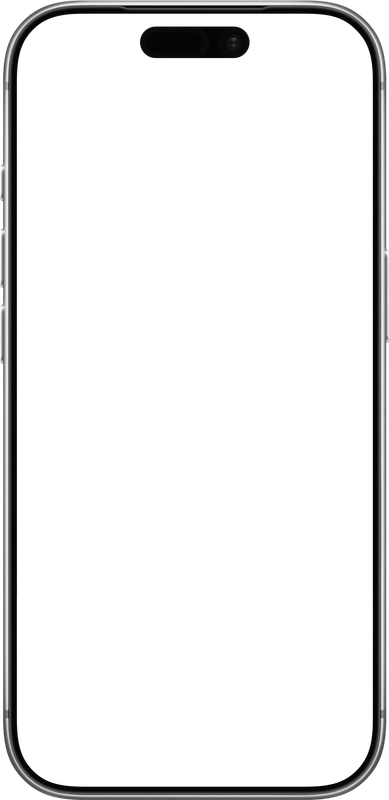
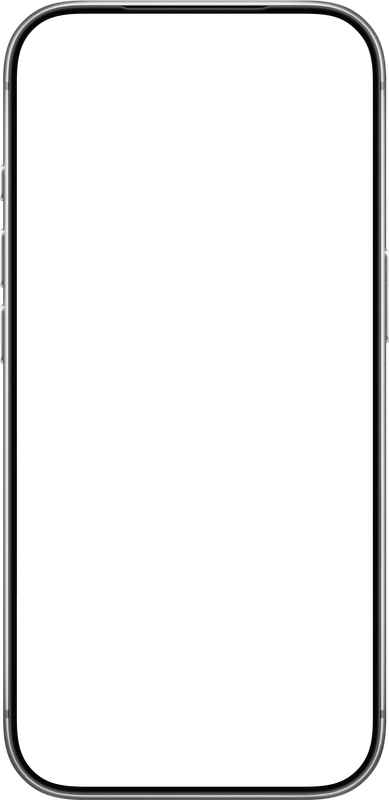
Фон приглушён, вырез камеры убран, отступы и коллаж поправлены
Фон перетягивал внимание на себя:
- красных лучей вместо 23 осталось 7 (на узких — 4)
- скорость ещё втрое ниже, цвет глуше (168,30,46 вместо фирменного) и
  прозрачнее (0.10–0.24 вместо 0.30–0.70)
- знаки и связи между ними тоже бледнее

Мокапы:
- убран вырез камеры: он закрывал шапку интерфейса на снимках. Удалён
  заливкой от центра выреза, кромку корпуса не трогали — первый заход
  чистил всё непрозрачное в верхней части окна и съел часть рамки
- размеры вернул к прежним: после компенсации под корпус телефоны
  выглядели крупнее, чем были

Прочее:
- снимки в блоке цены заходили друг на друга на полсотни пикселей после
  увеличения — теперь оба одного размера и с зазором
- на мобилке отступ от подзаголовка до карточки квиза был вдвое больше,
  чем у соседних блоков: складывались отступ сетки и margin карточки.
  Стало 23px — столько же, сколько в «Возможностях»

Changed region(s): [[0.3393, 0.0312, 0.6478, 0.0938]]

diff --git a/site/index.html b/site/index.html
@@ -82,7 +82,7 @@
 
   /* ── сетка ── */
   --shell: 1505px;
-  --shot-w: clamp(164.37px, 15.64vw, 300.24px);   /* ширина снимка с рамкой */
+  --shot-w: clamp(150px, 14.27vw, 274px);   /* ширина снимка с рамкой */
   --shot-gap: clamp(14px, 1.82vw, 35px);
 
   --ease: cubic-bezier(.22,.61,.36,1);
@@ -332,7 +332,7 @@ section, .foot { position: relative; z-index: 1; }
 .panel .tags { display: flex; flex-wrap: wrap; gap: 8px; }
 .panel .tag { font-size: var(--fs-cap); color: var(--muted-lo);
   border: 1px solid #2A2830; padding: 7px 12px; border-radius: 999px; }
-.panel .pic { align-self: flex-start; width: clamp(153.41px, 14.25vw, 273.94px); }
+.panel .pic { align-self: flex-start; width: clamp(140px, 13vw, 250px); }
 .panel .pic .shot, .case .pic .shot { width: 100%; }
 
 /* ── 04. Для кого ── */
@@ -376,7 +376,7 @@ section, .foot { position: relative; z-index: 1; }
   text-transform: uppercase; color: var(--red-lt); }
 .case h3 { margin: 14px 0 10px; }
 .case p { font-size: var(--fs-body); line-height: var(--lh-text); color: var(--muted-lo); }
-.case .pic { width: clamp(153.41px, 14.25vw, 273.94px); }
+.case .pic { width: clamp(140px, 13vw, 250px); }
 
 /* ── Слово основателя ── */
 .fv { display: grid; grid-template-columns: clamp(240px, 24vw, 380px) minmax(0, 1fr);
@@ -448,8 +448,10 @@ section, .foot { position: relative; z-index: 1; }
     margin-left: 10px;
     width: clamp(190px, 16.8vw, 323px); min-height: clamp(270px, 23.4vw, 450px); }
   .price .collage .shot { position: absolute; }
-  .price .collage .shot.a { left: 0; top: 0; width: clamp(101.91px, 8.96vw, 172.04px); }
-  .price .collage .shot.b { right: 0; top: clamp(48px, 4.4vw, 84px); width: clamp(119.44px, 10.56vw, 202.72px); }
+  .price .collage .shot.a, .price .collage .shot.b {
+    width: clamp(92px, 8.17vw, 157px); }
+  .price .collage .shot.a { left: 0; top: 0; }
+  .price .collage .shot.b { right: 0; top: clamp(48px, 4.4vw, 84px); }
 .price .tagline { font-size: var(--fs-cap); letter-spacing: .14em; text-transform: uppercase;
   color: var(--muted-hi); font-family: Oswald, sans-serif; }
 .price .sum { font-family: Oswald, sans-serif; font-weight: 700; font-size: clamp(40px, 3.44vw, 66px);
@@ -701,7 +703,12 @@ section, .foot { position: relative; z-index: 1; }
 .magnet .form input:focus { border-color: var(--paper); }
 .magnet .form .note { color: rgba(255,255,255,.72); }
 @media (max-width: 900px) { .magnet { grid-template-columns: 1fr; } }
-@media (max-width: 900px) { .qz-layout { grid-template-columns: 1fr; } }
+@media (max-width: 900px) {
+  .qz-layout { grid-template-columns: 1fr; gap: clamp(21px, 2.4vw, 46px); }
+  /* отступ до карточки задаёт только сетка — иначе он удваивался */
+  .qz { margin-top: 0; }
+  .qz-side { padding-top: 0; }
+}
 
 /* ── согласие на обработку данных ── */
 .agree { display: grid; grid-template-columns: auto 1fr; gap: 10px; align-items: start;
@@ -761,7 +768,7 @@ section, .foot { position: relative; z-index: 1; }
   .fv-media { max-width: 300px; width: 100%; margin: 0 auto; }
   .fv-body { padding-top: 0; }
   .fv-cmp { grid-template-columns: 1fr; }
-  /* relative, а не static: иначе скотч теряет опору и уезжает на карточку */
+  /* relative, а не static: absolute здесь ломает ряд */
   .price .collage .shot.a, .price .collage .shot.b {
     position: relative; left: auto; right: auto; top: auto;
     width: calc((100% - 12px) / 2); margin-top: 14px; }
@@ -850,7 +857,7 @@ section, .foot { position: relative; z-index: 1; }
   .demo { grid-template-columns: 1fr; }
 }
 </style>
-<script type="application/ld+json">__JSONLD__</script>
+<script type="application/ld+json">{"@context":"https://schema.org","@graph":[{"@type":"Organization","@id":"https://greagaew-alt.github.io/appforse-landing/site/#org","name":"AppForse","url":"https://greagaew-alt.github.io/appforse-landing/site/","logo":"https://greagaew-alt.github.io/appforse-landing/site/icon-192.png","image":"https://greagaew-alt.github.io/appforse-landing/site/og.jpg","description":"Готовая платформа мобильных приложений для торговли под брендом заказчика","sameAs":["https://vk.com/appforse","https://t.me/shark154"],"contactPoint":[{"@type":"ContactPoint","contactType":"sales","url":"https://t.me/shark154","availableLanguage":"Russian"}]},{"@type":"WebSite","@id":"https://greagaew-alt.github.io/appforse-landing/site/#site","url":"https://greagaew-alt.github.io/appforse-landing/site/","name":"AppForse","inLanguage":"ru-RU","publisher":{"@id":"https://greagaew-alt.github.io/appforse-landing/site/#org"}},{"@type":"WebPage","@id":"https://greagaew-alt.github.io/appforse-landing/site/#page","url":"https://greagaew-alt.github.io/appforse-landing/site/","name":"Мобильное приложение под вашим брендом за 7 дней — AppForse","isPartOf":{"@id":"https://greagaew-alt.github.io/appforse-landing/site/#site"},"about":{"@id":"https://greagaew-alt.github.io/appforse-landing/site/#org"},"inLanguage":"ru-RU","primaryImageOfPage":"https://greagaew-alt.github.io/appforse-landing/site/og.jpg"},{"@type":"Service","@id":"https://greagaew-alt.github.io/appforse-landing/site/#service","name":"Запуск мобильного приложения под брендом заказчика","serviceType":"Разработка мобильного приложения на готовой платформе","provider":{"@id":"https://greagaew-alt.github.io/appforse-landing/site/#org"},"areaServed":{"@type":"Country","name":"Россия"},"audience":[{"@type":"BusinessAudience","name":"Оптовые продажи"},{"@type":"BusinessAudience","name":"Магазины и доставка"},{"@type":"BusinessAudience","name":"Рестораны и доставка еды"},{"@type":"BusinessAudience","name":"Розница"}],"description":"Клиентское приложение и админ-панель под брендом заказчика: каталог, заказы, доставка, оплата, бонусы, push-уведомления и CRM. Публикация в App Store и Google Play за 7 рабочих дней.","offers":{"@type":"Offer","price":"150000","priceCurrency":"RUB","availability":"https://schema.org/InStock","url":"https://greagaew-alt.github.io/appforse-landing/site/#price","itemOffered":{"@type":"Service","name":"Запуск платформы под вашим брендом"}},"hasOfferCatalog":{"@type":"OfferCatalog","name":"В стоимость входит","itemListElement":[{"@type":"Offer","itemOffered":{"@type":"Service","name":"Клиентское приложение под вашим брендом"}},{"@type":"Offer","itemOffered":{"@type":"Service","name":"Публикация в App Store и Google Play"}},{"@type":"Offer","itemOffered":{"@type":"Service","name":"Каталог товаров, корзина и онлайн-оплата"}},{"@type":"Offer","itemOffered":{"@type":"Service","name":"Доставка и самовывоз"}},{"@type":"Offer","itemOffered":{"@type":"Service","name":"Бонусы, промокоды и push-уведомления"}},{"@type":"Offer","itemOffered":{"@type":"Service","name":"CRM и клиентская база"}},{"@type":"Offer","itemOffered":{"@type":"Service","name":"Админ-панель и аналитика"}}]}},{"@type":"FAQPage","@id":"https://greagaew-alt.github.io/appforse-landing/site/#faq","mainEntity":[{"@type":"Question","name":"У меня уже есть сайт и другие каналы продаж — зачем ещё приложение?","acceptedAnswer":{"@type":"Answer","text":"Каждый канал выполняет свою задачу. Реклама помогает привлекать новых клиентов, а приложение — возвращать тех, кто уже покупал. Через push-уведомления, бонусы и персональные предложения вы можете напрямую работать с клиентской базой и стимулировать повторные покупки."}},{"@type":"Question","name":"Чем это отличается от разработки приложения с нуля?","acceptedAnswer":{"@type":"Answer","text":"При разработке с нуля вы оплачиваете целую команду — аналитика, дизайнера, разработчиков под iOS и Android, тестировщика и менеджера проекта. Они заново пишут каталог, корзину, оплату и бонусную систему — это сотни часов и месяцы работы. У нас платформа уже написана, отлажена и работает в действующем бизнесе — мы разворачиваем её под ваш бренд за 7 дней. Индивидуальная разработка оправдана, когда у бизнеса действительно нестандартная задача."}},{"@type":"Question","name":"Сколько времени занимает запуск?","acceptedAnswer":{"@type":"Answer","text":"Само приложение собираем и подготавливаем к публикации за 7 рабочих дней после получения готового дизайна. Дизайн и фирменный стиль предоставляет клиент — мы адаптируем их под платформу и занимаемся сборкой приложения."}},{"@type":"Question","name":"Кто делает дизайн приложения?","acceptedAnswer":{"@type":"Answer","text":"Дизайн и фирменный стиль предоставляет клиент. Мы адаптируем готовый дизайн под платформу и собираем на его основе приложение. Если нужно, подскажем, какие материалы подготовить."}},{"@type":"Question","name":"Что нужно от меня для запуска?","acceptedAnswer":{"@type":"Answer","text":"Нужны информация о бизнесе, каталог товаров, логотип и фирменный стиль. После получения материалов мы берём сборку и подготовку приложения на себя."}},{"@type":"Question","name":"Я получаю исходный код?","acceptedAnswer":{"@type":"Answer","text":"Нет. Вы получаете готовое приложение под своим брендом, админ-панель и необходимые доступы для работы с платформой. Исходный код платформы в стоимость запуска не входит. Если потребуется его выкуп или передача — условия обсуждаются отдельно."}},{"@type":"Question","name":"Обязательно ли платить за поддержку?","acceptedAnswer":{"@type":"Answer","text":"Нет. После запуска вы получаете готовое приложение и необходимые доступы и можете управлять платформой самостоятельно. Техническая поддержка подключается по желанию — от 25 000 ₽/мес. в зависимости от объёма задач. Дополнительные функции и доработки рассчитываются отдельно."}},{"@type":"Question","name":"Что если клиенты не станут пользоваться приложением?","acceptedAnswer":{"@type":"Answer","text":"До запуска вы можете посмотреть демо и понять, как приложение выглядит для вашего клиента. После запуска привлекать пользователей можно через бонусы, push-уведомления, рекламу и собственные каналы коммуникации. Платформа уже работает в действующем бизнесе в нескольких городах."}}]}]}</script>
 </head>
 <body>
 <div id="root"></div>
@@ -1481,9 +1488,11 @@ const ParticleField = () => {
     };
     const seed = () => {
       /* связи ищем перебором пар, поэтому число знаков держим скромным:
-         80 точек это около 3200 сравнений за кадр, 42 — примерно 860 */
+         80 точек это около 3200 сравнений за кадр, 42 — примерно 860.
+         Лучей держим минимум: они самые заметные, а фон не должен
+         перетягивать внимание на себя */
       const nCount = w < 760 ? 42 : 80;
-      const bCount = w < 760 ? 13 : 23;
+      const bCount = w < 760 ? 4 : 7;
       nodes = [];
       for (let i = 0; i < nCount; i++) {
         nodes.push({
@@ -1499,8 +1508,8 @@ const ParticleField = () => {
           x: Math.random() * w,
           y: Math.random() * h,
           len: Math.random() * 90 + 46,
-          sp: Math.random() * 1.15 + 0.65,
-          a: Math.random() * 0.4 + 0.3
+          sp: Math.random() * 0.38 + 0.22,
+          a: Math.random() * 0.14 + 0.1
         });
       }
     };
@@ -1517,8 +1526,8 @@ const ParticleField = () => {
           b.x = Math.random() * w;
         }
         const g = ctx.createLinearGradient(b.x, b.y, b.x, b.y + b.len);
-        g.addColorStop(0, 'rgba(232, 36, 60, ' + b.a + ')');
-        g.addColorStop(1, 'rgba(232, 36, 60, 0)');
+        g.addColorStop(0, 'rgba(168, 30, 46, ' + b.a + ')');
+        g.addColorStop(1, 'rgba(168, 30, 46, 0)');
         ctx.strokeStyle = g;
         ctx.lineWidth = 1.6;
         ctx.beginPath();
@@ -1535,7 +1544,7 @@ const ParticleField = () => {
             dy = a.y - b.y;
           const d = Math.sqrt(dx * dx + dy * dy);
           if (d < LINK) {
-            ctx.strokeStyle = 'rgba(110, 110, 122, ' + 0.22 * (1 - d / LINK) + ')';
+            ctx.strokeStyle = 'rgba(110, 110, 122, ' + 0.12 * (1 - d / LINK) + ')';
             ctx.beginPath();
             ctx.moveTo(a.x, a.y);
             ctx.lineTo(b.x, b.y);
@@ -1561,13 +1570,13 @@ const ParticleField = () => {
           n.ch = GLYPHS[Math.random() * GLYPHS.length | 0];
         }
         if (near) {
-          ctx.strokeStyle = 'rgba(232, 36, 60, ' + 0.45 * (1 - d / REACH) + ')';
+          ctx.strokeStyle = 'rgba(198, 34, 54, ' + 0.22 * (1 - d / REACH) + ')';
           ctx.beginPath();
           ctx.moveTo(n.x, n.y);
           ctx.lineTo(mouse.x, mouse.y);
           ctx.stroke();
         }
-        ctx.fillStyle = near ? '#FF5468' : 'rgba(126, 126, 140, 0.52)';
+        ctx.fillStyle = near ? 'rgba(226, 62, 84, .7)' : 'rgba(120, 120, 134, 0.28)';
         ctx.fillText(n.ch, n.x, n.y);
       }
       raf = requestAnimationFrame(draw);

diff --git a/site/template.html b/site/template.html
@@ -82,7 +82,7 @@
 
   /* ── сетка ── */
   --shell: 1505px;
-  --shot-w: clamp(164.37px, 15.64vw, 300.24px);   /* ширина снимка с рамкой */
+  --shot-w: clamp(150px, 14.27vw, 274px);   /* ширина снимка с рамкой */
   --shot-gap: clamp(14px, 1.82vw, 35px);
 
   --ease: cubic-bezier(.22,.61,.36,1);
@@ -332,7 +332,7 @@ section, .foot { position: relative; z-index: 1; }
 .panel .tags { display: flex; flex-wrap: wrap; gap: 8px; }
 .panel .tag { font-size: var(--fs-cap); color: var(--muted-lo);
   border: 1px solid #2A2830; padding: 7px 12px; border-radius: 999px; }
-.panel .pic { align-self: flex-start; width: clamp(153.41px, 14.25vw, 273.94px); }
+.panel .pic { align-self: flex-start; width: clamp(140px, 13vw, 250px); }
 .panel .pic .shot, .case .pic .shot { width: 100%; }
 
 /* ── 04. Для кого ── */
@@ -376,7 +376,7 @@ section, .foot { position: relative; z-index: 1; }
   text-transform: uppercase; color: var(--red-lt); }
 .case h3 { margin: 14px 0 10px; }
 .case p { font-size: var(--fs-body); line-height: var(--lh-text); color: var(--muted-lo); }
-.case .pic { width: clamp(153.41px, 14.25vw, 273.94px); }
+.case .pic { width: clamp(140px, 13vw, 250px); }
 
 /* ── Слово основателя ── */
 .fv { display: grid; grid-template-columns: clamp(240px, 24vw, 380px) minmax(0, 1fr);
@@ -448,8 +448,10 @@ section, .foot { position: relative; z-index: 1; }
     margin-left: 10px;
     width: clamp(190px, 16.8vw, 323px); min-height: clamp(270px, 23.4vw, 450px); }
   .price .collage .shot { position: absolute; }
-  .price .collage .shot.a { left: 0; top: 0; width: clamp(101.91px, 8.96vw, 172.04px); }
-  .price .collage .shot.b { right: 0; top: clamp(48px, 4.4vw, 84px); width: clamp(119.44px, 10.56vw, 202.72px); }
+  .price .collage .shot.a, .price .collage .shot.b {
+    width: clamp(92px, 8.17vw, 157px); }
+  .price .collage .shot.a { left: 0; top: 0; }
+  .price .collage .shot.b { right: 0; top: clamp(48px, 4.4vw, 84px); }
 .price .tagline { font-size: var(--fs-cap); letter-spacing: .14em; text-transform: uppercase;
   color: var(--muted-hi); font-family: Oswald, sans-serif; }
 .price .sum { font-family: Oswald, sans-serif; font-weight: 700; font-size: clamp(40px, 3.44vw, 66px);
@@ -701,7 +703,12 @@ section, .foot { position: relative; z-index: 1; }
 .magnet .form input:focus { border-color: var(--paper); }
 .magnet .form .note { color: rgba(255,255,255,.72); }
 @media (max-width: 900px) { .magnet { grid-template-columns: 1fr; } }
-@media (max-width: 900px) { .qz-layout { grid-template-columns: 1fr; } }
+@media (max-width: 900px) {
+  .qz-layout { grid-template-columns: 1fr; gap: clamp(21px, 2.4vw, 46px); }
+  /* отступ до карточки задаёт только сетка — иначе он удваивался */
+  .qz { margin-top: 0; }
+  .qz-side { padding-top: 0; }
+}
 
 /* ── согласие на обработку данных ── */
 .agree { display: grid; grid-template-columns: auto 1fr; gap: 10px; align-items: start;
@@ -761,7 +768,7 @@ section, .foot { position: relative; z-index: 1; }
   .fv-media { max-width: 300px; width: 100%; margin: 0 auto; }
   .fv-body { padding-top: 0; }
   .fv-cmp { grid-template-columns: 1fr; }
-  /* relative, а не static: иначе скотч теряет опору и уезжает на карточку */
+  /* relative, а не static: absolute здесь ломает ряд */
   .price .collage .shot.a, .price .collage .shot.b {
     position: relative; left: auto; right: auto; top: auto;
     width: calc((100% - 12px) / 2); margin-top: 14px; }
@@ -1324,9 +1331,11 @@ const ParticleField = () => {
 
     const seed = () => {
       /* связи ищем перебором пар, поэтому число знаков держим скромным:
-         80 точек это около 3200 сравнений за кадр, 42 — примерно 860 */
+         80 точек это около 3200 сравнений за кадр, 42 — примерно 860.
+         Лучей держим минимум: они самые заметные, а фон не должен
+         перетягивать внимание на себя */
       const nCount = w < 760 ? 42 : 80;
-      const bCount = w < 760 ? 13 : 23;
+      const bCount = w < 760 ? 4 : 7;
       nodes = [];
       for (let i = 0; i < nCount; i++) {
         nodes.push({
@@ -1340,8 +1349,8 @@ const ParticleField = () => {
         beams.push({
           x: Math.random() * w, y: Math.random() * h,
           len: Math.random() * 90 + 46,
-          sp: Math.random() * 1.15 + 0.65,
-          a: Math.random() * 0.4 + 0.3,
+          sp: Math.random() * 0.38 + 0.22,
+          a: Math.random() * 0.14 + 0.1,
         });
       }
     };
@@ -1357,8 +1366,8 @@ const ParticleField = () => {
         b.y -= b.sp;
         if (b.y + b.len < 0) { b.y = h + 80; b.x = Math.random() * w; }
         const g = ctx.createLinearGradient(b.x, b.y, b.x, b.y + b.len);
-        g.addColorStop(0, 'rgba(232, 36, 60, ' + b.a + ')');
-        g.addColorStop(1, 'rgba(232, 36, 60, 0)');
+        g.addColorStop(0, 'rgba(168, 30, 46, ' + b.a + ')');
+        g.addColorStop(1, 'rgba(168, 30, 46, 0)');
         ctx.strokeStyle = g;
         ctx.lineWidth = 1.6;
         ctx.beginPath();
@@ -1375,7 +1384,7 @@ const ParticleField = () => {
           const dx = a.x - b.x, dy = a.y - b.y;
           const d = Math.sqrt(dx * dx + dy * dy);
           if (d < LINK) {
-            ctx.strokeStyle = 'rgba(110, 110, 122, ' + (0.22 * (1 - d / LINK)) + ')';
+            ctx.strokeStyle = 'rgba(110, 110, 122, ' + (0.12 * (1 - d / LINK)) + ')';
             ctx.beginPath();
             ctx.moveTo(a.x, a.y);
             ctx.lineTo(b.x, b.y);
@@ -1398,13 +1407,13 @@ const ParticleField = () => {
           n.ch = GLYPHS[(Math.random() * GLYPHS.length) | 0];
         }
         if (near) {
-          ctx.strokeStyle = 'rgba(232, 36, 60, ' + (0.45 * (1 - d / REACH)) + ')';
+          ctx.strokeStyle = 'rgba(198, 34, 54, ' + (0.22 * (1 - d / REACH)) + ')';
           ctx.beginPath();
           ctx.moveTo(n.x, n.y);
           ctx.lineTo(mouse.x, mouse.y);
           ctx.stroke();
         }
-        ctx.fillStyle = near ? '#FF5468' : 'rgba(126, 126, 140, 0.52)';
+        ctx.fillStyle = near ? 'rgba(226, 62, 84, .7)' : 'rgba(120, 120, 134, 0.28)';
         ctx.fillText(n.ch, n.x, n.y);
       }
 
